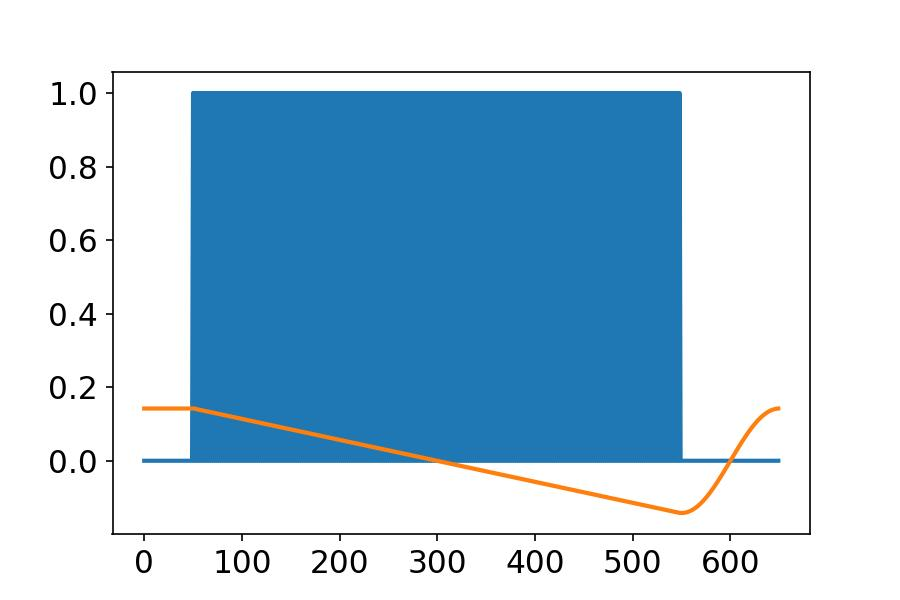
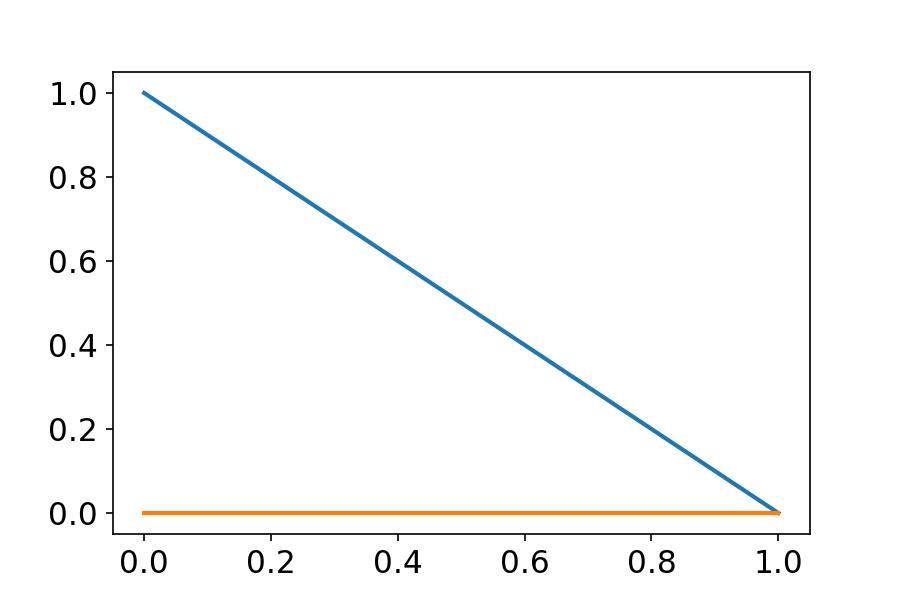
fixed camera miss trigger issue

diff --git a/ThreadCamera_DH.py b/ThreadCamera_DH.py
@@ -66,6 +66,8 @@ DAHENG_SPECTRAL_DIMENSION = "horizontal"
 # Packed conversion and transpose-write are the long pole for long dynamic scans.
 # Increase this cautiously: block completion is still emitted in frame order below.
 DAHENG_CONSUMER_WORKERS = 4
+DAHENG_BUFFER_TIMEOUT_MS = 500
+DAHENG_MAX_CONSECUTIVE_TIMEOUTS = 20
 
 
 def daheng_spectral_axis():
@@ -475,17 +477,46 @@ class Camera(QThread):
         ]
         for worker in workers:
             worker.start()
+        acquisition_error_message = None
         try:
+            print(
+                "Daheng camera acquisition ready: "
+                f"stream_on={getattr(self, '_last_stream_on_elapsed', 0.0):.3f}s, "
+                f"workers={worker_count}, expected_frames={self.BlinesPerAcq}."
+            )
             self.DbackQueue.put(0)
             BlinesCount = 0
+            consecutive_timeouts = 0
             while BlinesCount < self.BlinesPerAcq and self.ui.RunButton.isChecked():
                 t_dq = time.perf_counter()
-                buf = ds.dq_buf(timeout=500)
+                buf = ds.dq_buf(timeout=DAHENG_BUFFER_TIMEOUT_MS)
                 add_profile("dq_buf", time.perf_counter() - t_dq)
                 if buf is None:
-                    print("camera time out...")
+                    consecutive_timeouts += 1
+                    print(
+                        "camera time out... "
+                        f"consecutive={consecutive_timeouts}, "
+                        f"received={BlinesCount}/{self.BlinesPerAcq}, "
+                        f"timeout={DAHENG_BUFFER_TIMEOUT_MS}ms"
+                    )
                     increment_profile("timeouts")
+                    if (
+                        self.BlinesPerAcq != CONTINUOUS
+                        and consecutive_timeouts >= DAHENG_MAX_CONSECUTIVE_TIMEOUTS
+                    ):
+                        print(
+                            "Daheng camera acquisition aborted after "
+                            f"{consecutive_timeouts} consecutive buffer timeouts. "
+                            "This usually means the camera missed one or more finite triggers."
+                        )
+                        acquisition_error_message = (
+                            "Daheng camera acquisition aborted after "
+                            f"{consecutive_timeouts} consecutive buffer timeouts; "
+                            f"received {BlinesCount}/{self.BlinesPerAcq} frame(s)."
+                        )
+                        break
                     continue
+                consecutive_timeouts = 0
                 t_put = time.perf_counter()
                 grab_q.put((buf, BlinesCount))
                 add_profile("queue_put", time.perf_counter() - t_put)
@@ -504,6 +535,8 @@ class Camera(QThread):
                 grab_q.put(grab_stop)
         for worker in workers:
             worker.join()
+        if acquisition_error_message is not None:
+            self.DatabackQueue.put(DbackActionField(None, error=acquisition_error_message))
         self.MemoryLoc = (start_memory_slot + next_block_to_emit[0]) % self.memoryCount
         total = time.perf_counter() - total_t0
         queue_put_fraction = profile["queue_put"] / max(total, 1e-9)
@@ -556,7 +589,10 @@ class Camera(QThread):
 
     def Stream_on(self):
         if self.hcam is not None:
-            self.hcam.stream_on() 
+            t0 = time.perf_counter()
+            self.hcam.stream_on()
+            self._last_stream_on_elapsed = time.perf_counter() - t0
+            print(f"Daheng stream_on completed in {self._last_stream_on_elapsed:.3f}s.")
 
     def Stream_off(self):
         if self.hcam is not None:

diff --git a/ThreadWeaver.py b/ThreadWeaver.py
@@ -558,6 +558,7 @@ class WeaverThread(QThread):
         t2=time.time()
         # start camera
 
+        self.drain_queue(self.DbackQueue, "DbackQueue")
         an_action = DActionField('Acquire')
         self.DQueue.put(an_action)
         self.DbackQueue.get()
@@ -576,6 +577,7 @@ class WeaverThread(QThread):
         # print('current dbackqueue size:', self.DbackQueue.qsize())
         # print('\n')
         message = f"{DnS_action} stopped by user."
+        acquisition_failed = False
         for iAcq in range(self.NAcq):
             start = time.time()
             dynamic_bline_idx = iAcq if (self.current_dynamic_enabled() and acq_mode in (CSCAN_MODES + MOSAIC_DISPLAY_MODES)) else None
@@ -585,6 +587,11 @@ class WeaverThread(QThread):
             while self.ui.RunButton.isChecked():
                 try:
                     an_action = self.DatabackQueue.get(timeout = 2.5)
+                    if getattr(an_action, "error", None):
+                        message = str(an_action.error)
+                        print(message)
+                        acquisition_failed = True
+                        break
                     # print('camera queue size:', self.DatabackQueue.qsize())
                     # print('time to fetch data: '+str(round(time.time()-start,3))+'sec')
                     memory_slot = an_action.memory_slot
@@ -628,6 +635,8 @@ class WeaverThread(QThread):
                     break
                 except:
                     print(f"{DnS_action}: waiting for camera data...")
+            if acquisition_failed:
+                break
                     
         an_action = AODOActionField('tryStopTask')
         self.AODOQueue.put(an_action)
@@ -658,8 +667,10 @@ class WeaverThread(QThread):
         self.StagebackQueue.get()
         data_backs = 0 # count number of data backs
         skipped_fft_actions = 0
+        camera_error_message = None
 
         # start digitizer for one acuquqisition
+        self.drain_queue(self.DbackQueue, "DbackQueue")
         an_action = DActionField('Acquire')
         self.DQueue.put(an_action)
         self.DbackQueue.get()
@@ -675,6 +686,11 @@ class WeaverThread(QThread):
             try: # use try-except in cases where Stop button clicked and camera stopped prior to while loop
                 start = time.time()
                 an_action = self.DatabackQueue.get(timeout=2) # never time out
+                if getattr(an_action, "error", None):
+                    message = str(an_action.error)
+                    print(message)
+                    camera_error_message = message
+                    break
                 # print('time to fetch data: '+str(round(time.time()-start,3)))
                 memory_slot = an_action.memory_slot
                 # print(memory_slot)
@@ -745,9 +761,12 @@ class WeaverThread(QThread):
         self.StagebackQueue.get() # wait for AODO CloseTask
         # digitizer will close automatically
         self.finalize_partial_dynamic_naming(acq_mode)
-        message = f"{DnS_action} stopped. Received {data_backs} camera buffer(s)."
-        if skipped_fft_actions:
-            message += f" Skipped {skipped_fft_actions} stale continuous FFT request(s)."
+        if camera_error_message is None:
+            message = f"{DnS_action} stopped. Received {data_backs} camera buffer(s)."
+            if skipped_fft_actions:
+                message += f" Skipped {skipped_fft_actions} stale continuous FFT request(s)."
+        else:
+            message = camera_error_message
         print(message)
         self.drain_continuous_backlog(reason=f"after {DnS_action}")
         an_action = GPUActionField(GPUActions.DISPLAY_FFT_ACTIONS)

diff --git a/ActionFields.py b/ActionFields.py
@@ -54,9 +54,10 @@ class DActionField:
 
 
 class DbackActionField:
-    def __init__(self, memory_slot):
+    def __init__(self, memory_slot, error=None):
         super().__init__()
         self.memory_slot = memory_slot
+        self.error = error
 
 
 class EXITField: